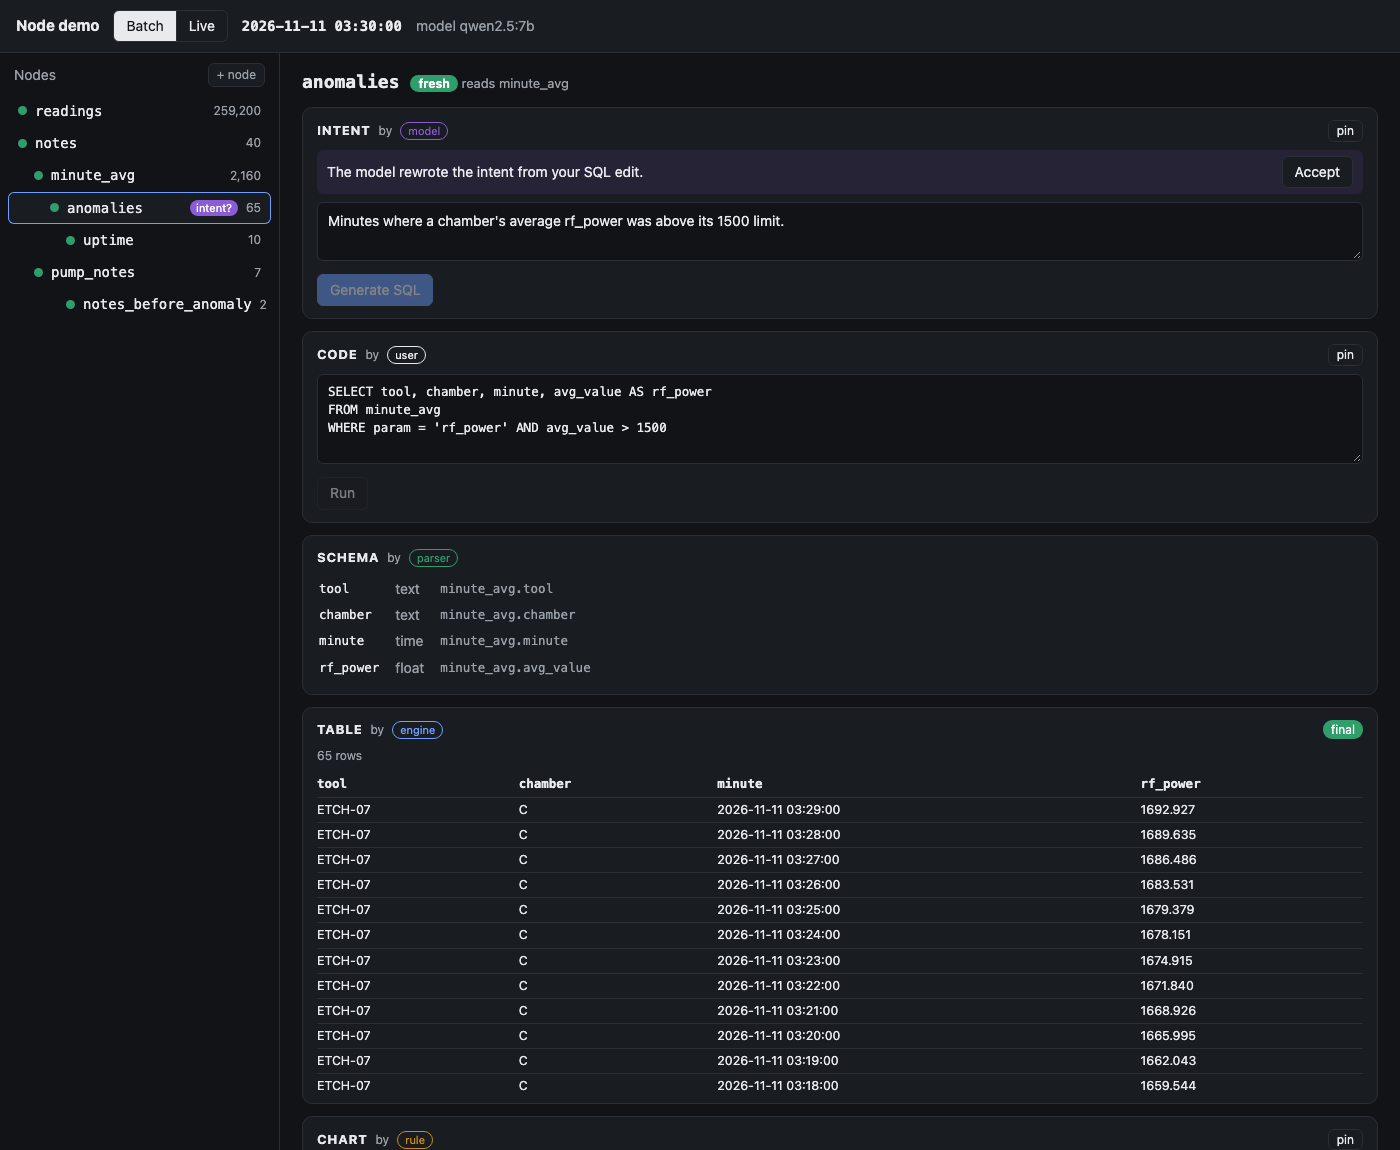
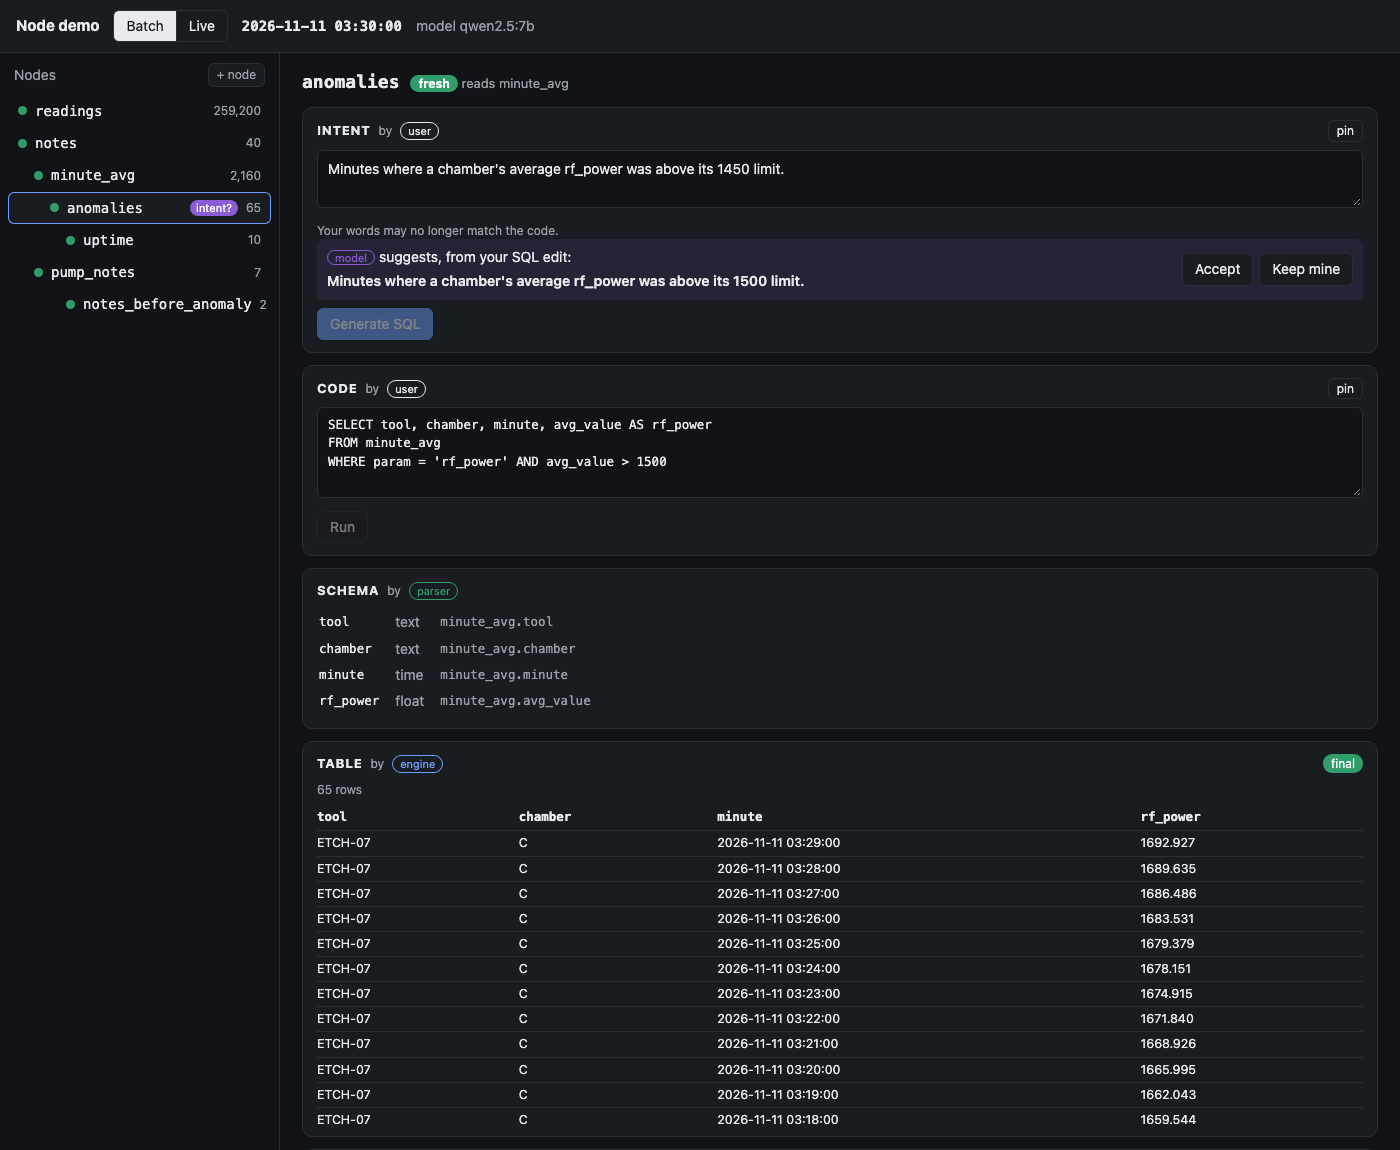
fix(landing): part 6 — a suggested intent now sits next to the user's words (Accept / Keep mine)

diff --git a/apps/landing/src/posts/our-node-design.tsx b/apps/landing/src/posts/our-node-design.tsx
@@ -186,14 +186,14 @@ export function OurNodeDesignBody() {
       <h2>03 · Edit the SQL: the rest follows, the words wait</h2>
       <p>
         We changed the anomaly limit in the SQL from 1450 to 1500. The schema was re-derived in 4 ms and the table in
-        7 ms; the two nodes that read anomalies re-ran in 32 ms. A second later the model's new intent appeared — "…above its 1500 limit." It takes the intent's place,
-        flagged as the model's suggestion ("intent?") until someone accepts it; to keep your own words, pin the
-        intent.
+        7 ms; the two nodes that read anomalies re-ran in 32 ms. A second later the model's new intent appeared — "…above its 1500 limit." — in a box under the user's own
+        words, which stay and are marked as possibly out of date. "Accept" takes the model's sentence; "Keep mine"
+        drops it. A pinned intent gets no suggestion at all.
       </p>
       <Shot
         src="/blog/semantic-data/node-anomalies.png"
-        alt="The anomalies node after a hand edit of its SQL: the suggested intent is shown with an Accept button"
-        caption="Code by user, schema by parser, table by engine, chart by rule; the intent by the model, waiting for Accept."
+        alt="The anomalies node after a hand edit of its SQL: the user's intent is kept, and the model's suggested intent is shown under it with Accept and Keep mine buttons"
+        caption="The user's intent still says 1450; the model's suggestion says 1500 and waits for Accept or Keep mine. Code by user, schema by parser, table by engine."
       />
       <p>
         When an edit upstream removes a column that others use, nothing is fixed behind your back. A new intent for the
@@ -259,10 +259,7 @@ export function OurNodeDesignBody() {
           pays off with longer history.
         </li>
         <li>Ten intents is a small test. Every number here is one run.</li>
-        <li>
-          A suggested intent replaces the old wording instead of sitting next to it; there is no "reject" that brings
-          the user's sentence back. Pinning is the only protection today.
-        </li>
+        
         <li>
           A review of the build found what a viewer would hit, and we fixed it. Examples: the live clock stopped while
           the model wrote SQL, and a model that was down left an empty node.
